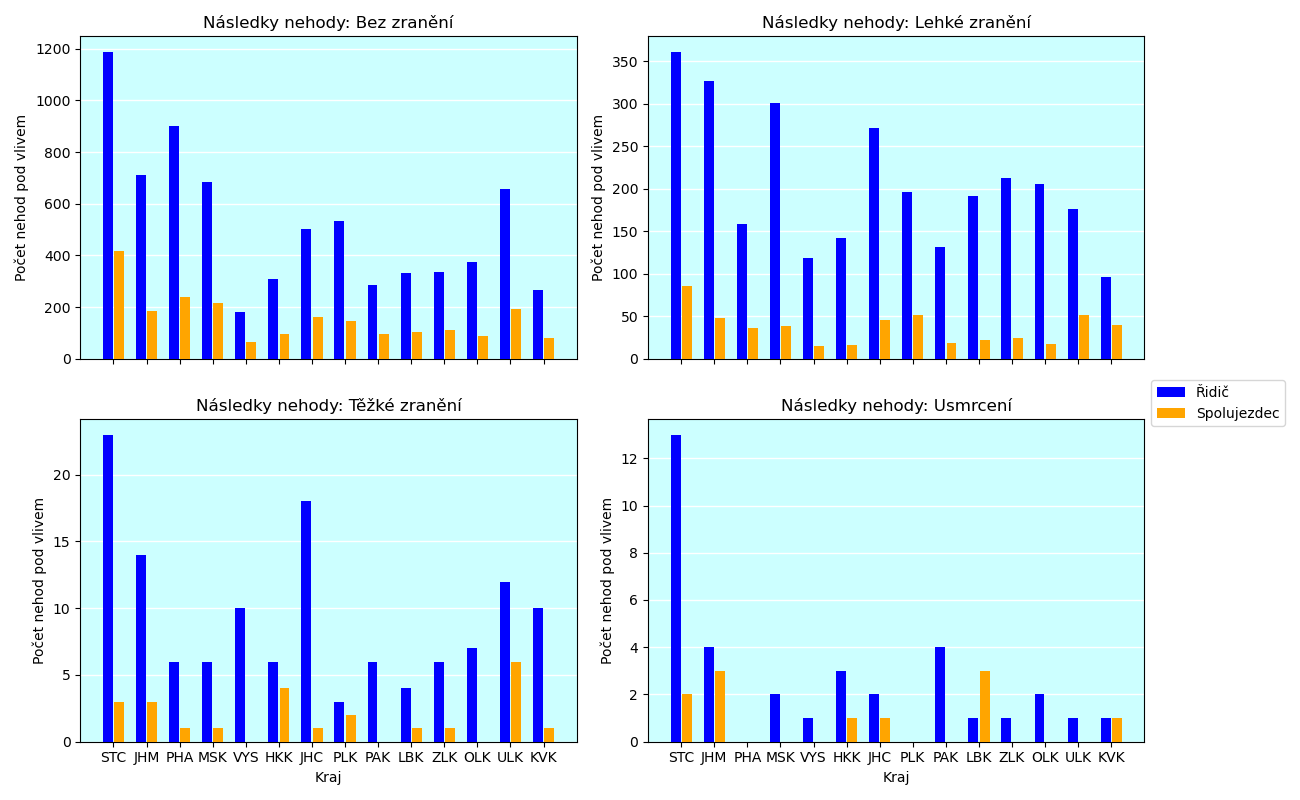
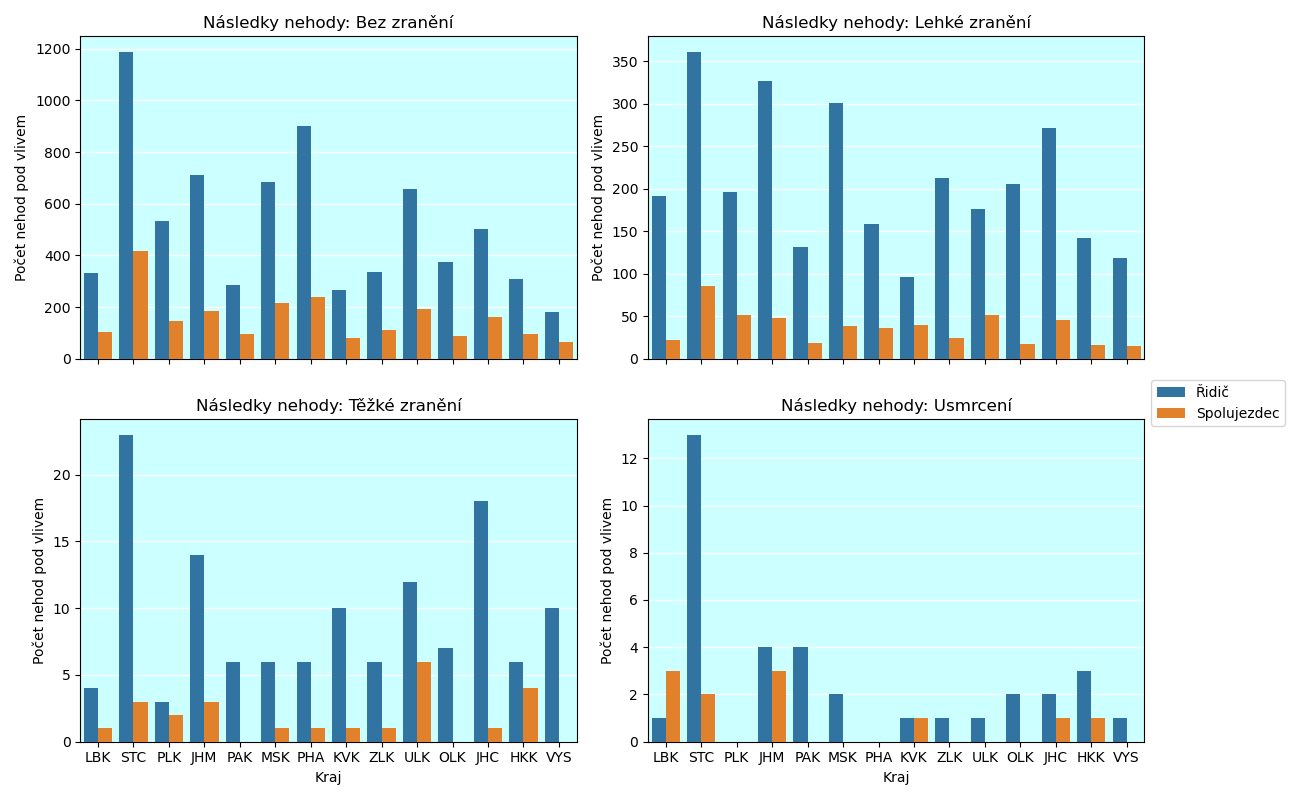
IZV Updated code with seaborn

diff --git a/IZV/project_part2/analysis.py b/IZV/project_part2/analysis.py
@@ -124,12 +124,8 @@ def plot_state(df: pd.DataFrame, fig_location: str = None,
     for i, state_name in enumerate(df['state'].dropna().unique()):
         ax = axes[i // 2, i % 2]
 
-        # Group by regions and count records in them
-        state_data = df[df['state'] == state_name]
-        state_counts = state_data.groupby('region')['region'].agg('count')
-
-        # Graph displays that count in each region
-        ax.bar(state_counts.index, state_counts.values, width=0.8, zorder=3, color=colors[i])
+        # Countplot creates a bar graph with number of each state in regions.
+        sns.countplot(data=df[df['state'] == state_name], x='region', ax=ax, zorder=3, color=colors[i])
 
         # Graphical improvement and titles
         ax.set_title(f'Stav povrchu vozovky: {state_name}')
@@ -137,6 +133,8 @@ def plot_state(df: pd.DataFrame, fig_location: str = None,
             ax.set_xlabel('Kraj')
         if i % 2 == 0:
             ax.set_ylabel('Počet nehod')
+        else:
+            ax.set_ylabel('')
         ax.set_facecolor('#CCFFFF')
         ax.grid(axis='y', color='red', linewidth=1, zorder=0)
 
@@ -183,30 +181,14 @@ def plot_alcohol(df: pd.DataFrame, df_consequences : pd.DataFrame,
     for i, injury_name in enumerate(df_new['injury'].dropna().unique()):
         ax = axes[i // 2, i % 2]
 
-        # Filter data for driver and passenger and group by regions
-        injury_driver_data = df_new[
+        # Filter data for driver and passenger
+        injury_data = df_new[
             (df_new['alcohol'] == 'Ano')
-            & (df_new['injured_person'] == 'Řidič')
             & (df_new['injury'] == injury_name)
         ]
-        injury_passenger_data = df_new[
-            (df_new['alcohol'] == 'Ano')
-            & (df_new['injured_person'] == 'Spolujezdec')
-            & (df_new['injury'] == injury_name)
-        ]
-        injury_driver_counts = injury_driver_data.groupby('region')['region'].agg('count')
-        injury_passenger_counts = injury_passenger_data.groupby('region')['region'].agg('count')
 
-        # Reindex them to include empty regions (without specific injury)
-        injury_driver_counts = injury_driver_counts.reindex(df_new['region'].unique(), fill_value=0)
-        injury_passenger_counts = injury_passenger_counts.reindex(df_new['region'].unique(), fill_value=0)
-
-        # Calculate positions in graph (need 2 bars next to each other)
-        positions = np.arange(len(injury_driver_counts.index))
-
-        # Graph displays that count of injured person type in each region
-        ax.bar(positions - 0.17, injury_driver_counts.values, width=0.3, bottom=0, color='blue', label='Řidič', zorder=3)
-        ax.bar(positions + 0.17, injury_passenger_counts.values, width=0.3, bottom=0, color='orange', label='Spolujezdec', zorder=3)
+        # Graph displays a count of injured person type in each region
+        sns.countplot(data=injury_data, x='region', hue='injured_person', ax=ax, zorder=3, legend=False)
 
         # Graphical improvement and titles
         ax.set_title(f'Následky nehody: {injury_name}')
@@ -215,8 +197,6 @@ def plot_alcohol(df: pd.DataFrame, df_consequences : pd.DataFrame,
         ax.set_ylabel('Počet nehod pod vlivem')
         ax.set_facecolor('#CCFFFF')
         ax.grid(axis='y', color='white', linewidth=1, zorder=0)
-        ax.set_xticks(positions)
-        ax.set_xticklabels(injury_driver_counts.index)
 
     plt.legend(['Řidič', 'Spolujezdec'], loc='center left', bbox_to_anchor=(1.0, 1.05))
     fig.tight_layout()
@@ -274,23 +254,29 @@ def plot_type(df: pd.DataFrame, fig_location: str = None,
         & (df['date'] <= '2024-10-01')
     ]
 
+    colors = sns.color_palette('bright', len(collision))
+
     # Create 4 sublots according to 4 random regions
     for i, region_name in enumerate(chosen_regions):
         ax = axes[i // 2, i % 2]
 
         region_data = df[df['region'] == region_name]
-        for collision_type in collision.values():
+        for j, collision_type in enumerate(collision.values()):
             # Check all collisions and create plot graph for each
-            collision_data = region_data[region_data['collision'] == collision_type]
-            ax.plot(collision_data['date'], collision_data[0])
+            sns.lineplot(data=region_data[region_data['collision'] == collision_type],
+                         x='date', y=0, ax=ax, legend=False, color=colors[j])
 
         # Graphical improvement and titles
         ax.set_title(f'Kraj: {region_name}')
         if i % 2 == 0:
             ax.set_ylabel('Počet nehod')
-        plt.setp(ax.xaxis.get_majorticklabels(), rotation=45, ha="right")
+        else:
+            ax.set_ylabel('')
+        ax.set_xlabel('')
+        plt.setp(ax.xaxis.get_majorticklabels(), rotation=45, ha='right', x=5)
 
-    plt.legend(collision.values(), loc='lower left', bbox_to_anchor=(1.0, 0.75), title='Druh nehody')
+    handles = [plt.Line2D([0], [0], color=colors[i]) for i in range(len(collision))]
+    plt.legend(handles=handles, labels=collision.values(), loc='lower left', bbox_to_anchor=(1.0, 0.75), title='Druh nehody')
     fig.tight_layout()
     fig.subplots_adjust(hspace=0.4, wspace=0.15)
 
